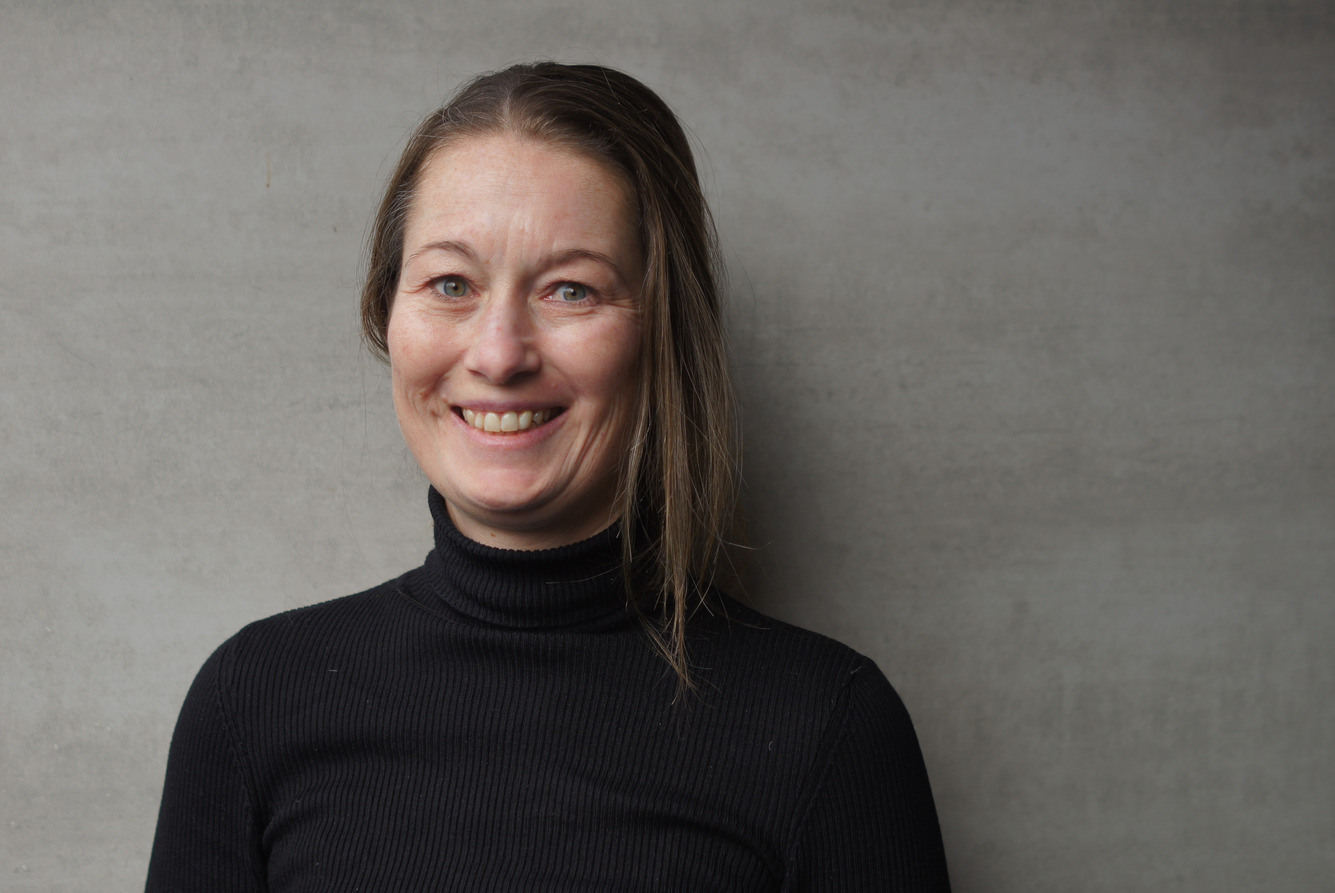
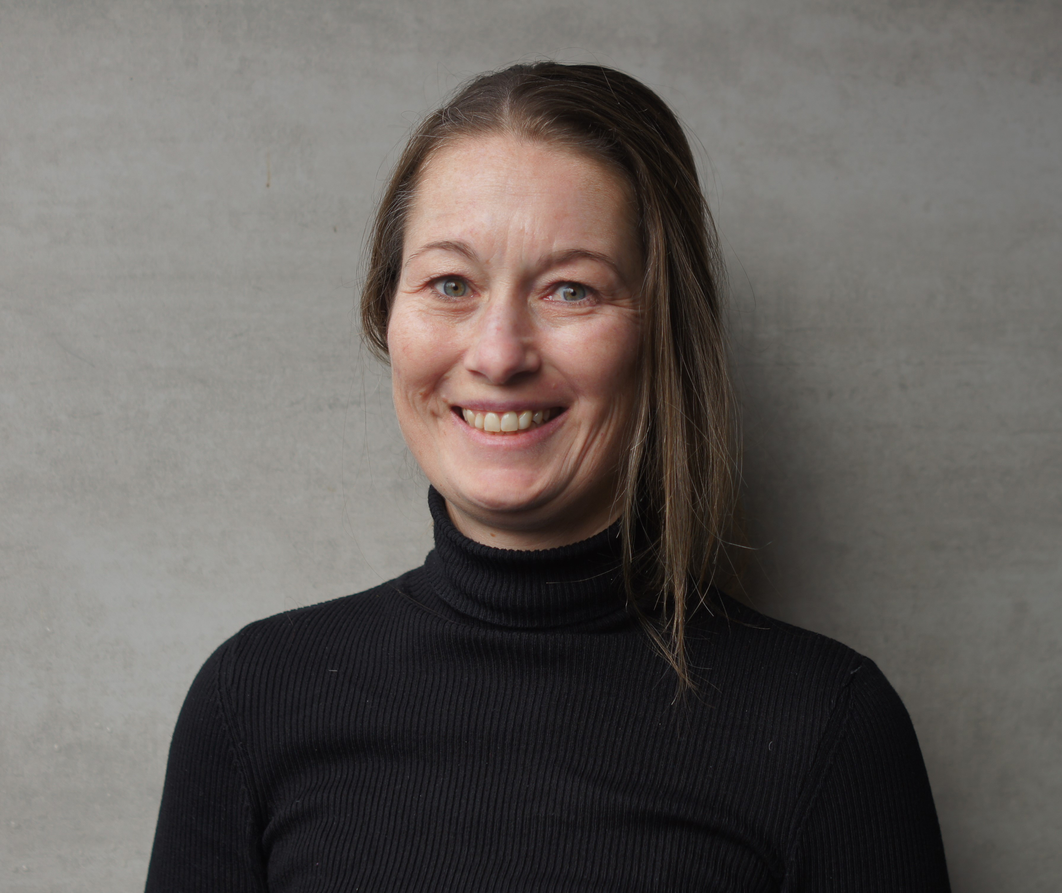
Adjusted images + page edits
- Added 2 githubs
- Added a Linkedin
- Edits pictures and switched some
- Took out break bar
- Past > Former
- Former contributors pictures taken out

diff --git a/content/en/authors/ros-birgit/_index.md b/content/en/authors/ros-birgit/_index.md
@@ -6,7 +6,7 @@ title: Birgit Ros
 authors:
 - ros-birgit
 
-weight: 23
+weight: 17
 
 # Is this the primary user of the site?
 superuser: false
@@ -41,9 +41,9 @@ social:
 #- icon: google-scholar
 #  icon_pack: ai
 #  link: https://scholar.google.co.uk/citations?user=sIwtMXoAAAAJ
-#- icon: github
-#  icon_pack: fab
-#  link: https://github.com/
+- icon: github
+  icon_pack: fab
+  link: https://github.com/BirgitAlkemio
 # Link to a PDF of your resume/CV from the About widget.
 # To enable, copy your resume/CV to `static/files/cv.pdf` and uncomment the lines below.
 # - icon: cv

diff --git a/content/en/authors/swarte-rosalie/_index.md b/content/en/authors/swarte-rosalie/_index.md
@@ -6,7 +6,7 @@ title: Rosalie Swarte
 authors:
 - swarte-rosalie
 
-weight: 10
+weight: 23
 
 # Is this the primary user of the site?
 superuser: false
@@ -37,9 +37,9 @@ social:
 #- icon: google-scholar
 #  icon_pack: ai
 #  link: https://scholar.google.co.uk/citations?user=sIwtMXoAAAAJ
-#- icon: github
-#  icon_pack: fab
-#  link: 
+- icon: github
+  icon_pack: fab
+  link: https://github.com/Roseghost
 # Link to a PDF of your resume/CV from the About widget.
 # To enable, copy your resume/CV to `static/files/cv.pdf` and uncomment the lines below.
 # - icon: cv

diff --git a/content/en/authors/tasic-lazar/_index.md b/content/en/authors/tasic-lazar/_index.md
@@ -4,9 +4,9 @@ title: Lazar Tasic
 
 # Username (this should match the folder name)
 authors:
-- tasic-lazar
+- lisjak-tatjana
 
-weight: 14
+weight: 24
 
 # Is this the primary user of the site?
 superuser: false
@@ -33,7 +33,7 @@ social:
 #  link: https://twitter.com/GeorgeCushen
 - icon: linkedin
   icon_pack: fab
-  link: https://www.linkedin.com/
+  link: https://www.linkedin.com/in/lazar-tasic-72b223203/
 #- icon: google-scholar
 #  icon_pack: ai
 #  link: https://scholar.google.co.uk/citations?user=sIwtMXoAAAAJ

diff --git a/content/en/about/88-introducing-past-contributors.md b/content/en/about/88-introducing-past-contributors.md
@@ -10,7 +10,7 @@ headless: true
 weight: 88
 
 # Section title
-title: Past Contributors
+title: Former Contributors
 
 # Section subtitle
 subtitle: Recognizing all those that have contributed to Alkemio!

diff --git a/content/en/authors/stojanovic-aleksandar/_index.md b/content/en/authors/stojanovic-aleksandar/_index.md
@@ -6,7 +6,7 @@ title: Aleksandar Stojanović
 authors:
 - stojanovic-aleksandar
 
-weight: 19
+weight: 21
 
 # Is this the primary user of the site?
 superuser: false

diff --git a/content/en/authors/santayana-carlos/_index.md b/content/en/authors/santayana-carlos/_index.md
@@ -6,7 +6,7 @@ title: Carlos Cano de Santayana
 authors:
 - santayana-carlos
 
-weight: 22
+weight: 18
 
 # Is this the primary user of the site?
 superuser: false

diff --git a/content/en/authors/rietmeijer-simone/_index.md b/content/en/authors/rietmeijer-simone/_index.md
@@ -6,7 +6,7 @@ title: Simone Rietmeijer
 authors:
 - rietmeijer-simone
 
-weight: 21
+weight: 16
 
 # Is this the primary user of the site?
 superuser: false

diff --git a/content/en/authors/yanakiev-valentin/_index.md b/content/en/authors/yanakiev-valentin/_index.md
@@ -6,7 +6,7 @@ title: Valentin Yanakiev
 authors:
 - yanakiev-valentin
 
-weight: 3
+weight: 25
 
 # Is this the primary user of the site?
 superuser: false

diff --git a/content/en/authors/petkov-svetoslav/_index.md b/content/en/authors/petkov-svetoslav/_index.md
@@ -6,7 +6,7 @@ title: Svetoslav Petkov
 authors: 
 - petkov-svetoslav
 
-weight: 7
+weight: 14
 
 # Is this the primary user of the site?
 superuser: false

diff --git a/content/en/authors/scholtes-kaylee/_index.md b/content/en/authors/scholtes-kaylee/_index.md
@@ -6,7 +6,7 @@ title: Kaylee Scholtes
 authors:
 - scholtes-kaylee
 
-weight: 10
+weight: 19
 
 # Is this the primary user of the site?
 superuser: false

diff --git a/content/en/authors/pazniak-andrew/_index.md b/content/en/authors/pazniak-andrew/_index.md
@@ -6,7 +6,7 @@ title: Andrew Pazniak
 authors: 
 - pazniak-andrew
 
-weight: 17
+weight: 12
 
 # Is this the primary user of the site?
 superuser: false

diff --git a/content/en/authors/larsson-denise/_index.md b/content/en/authors/larsson-denise/_index.md
@@ -6,7 +6,7 @@ title: Denise Larsson
 authors:
 - larsson-denise
 
-weight: 16
+weight: 11
 
 # Is this the primary user of the site?
 superuser: false
